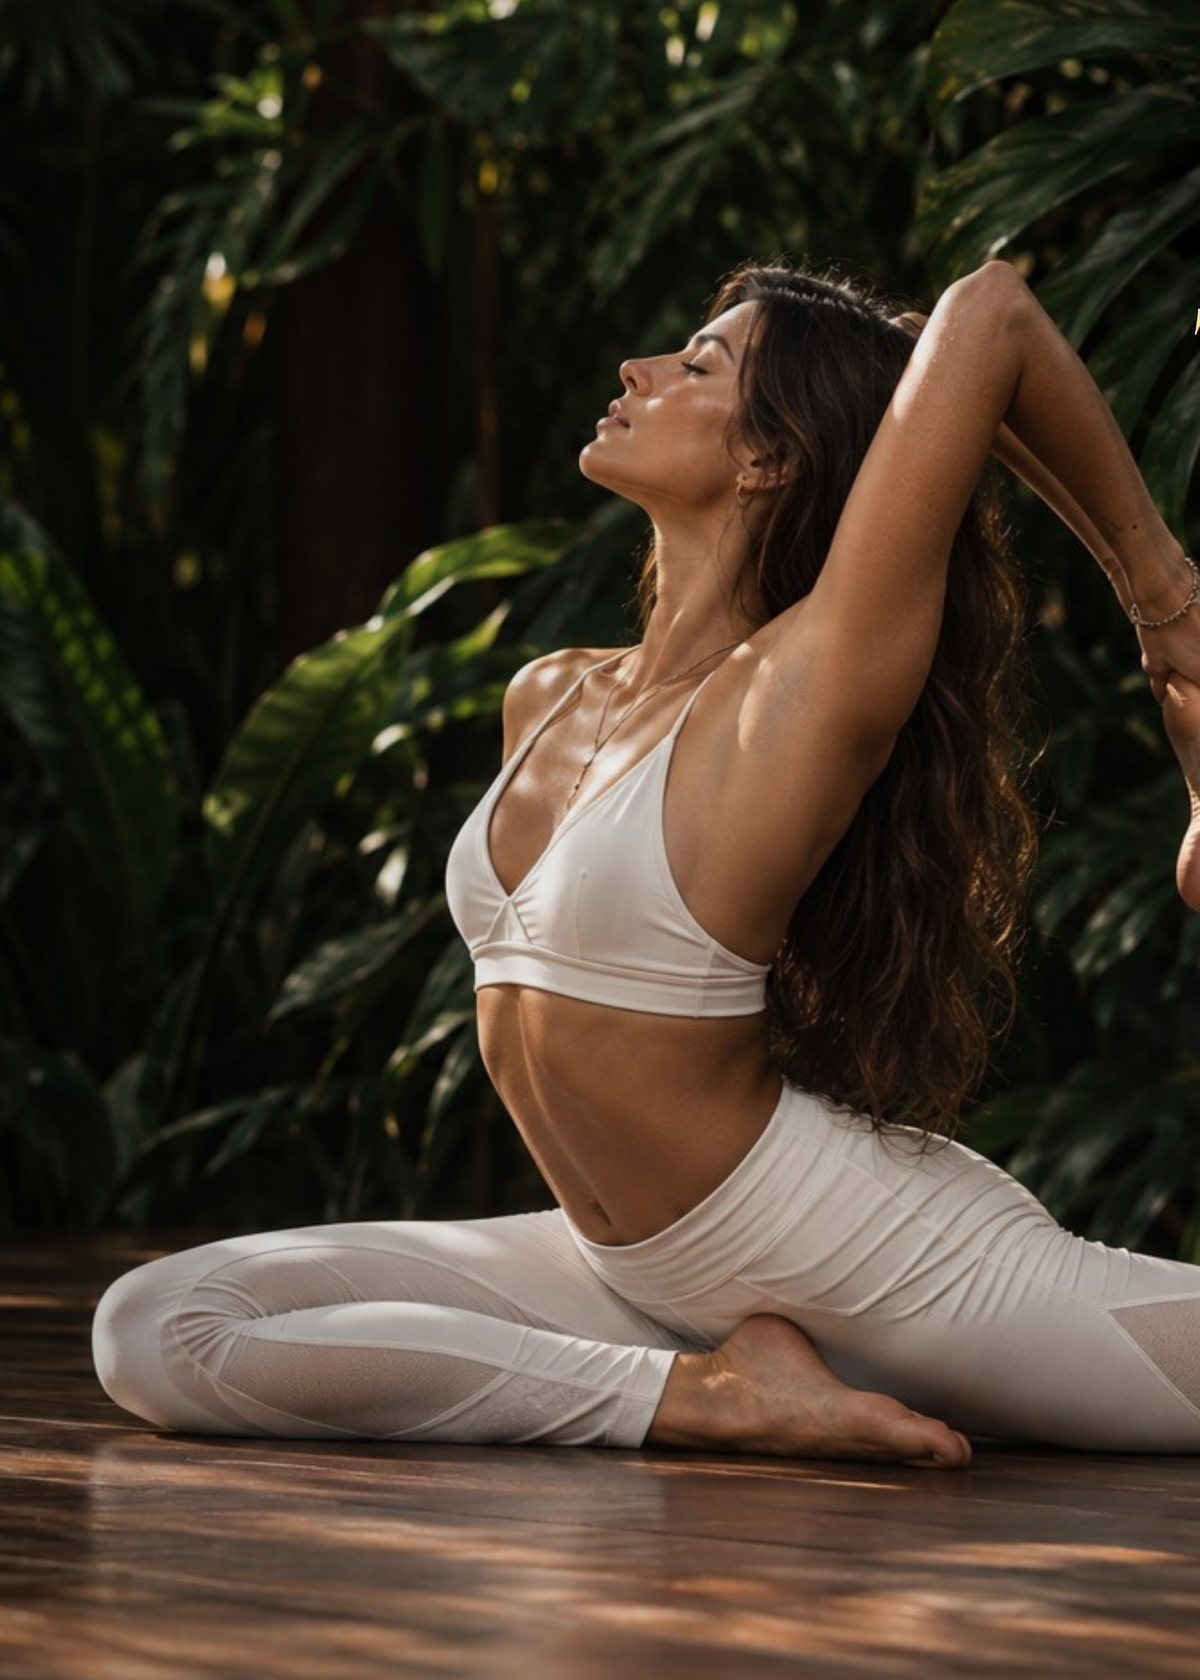
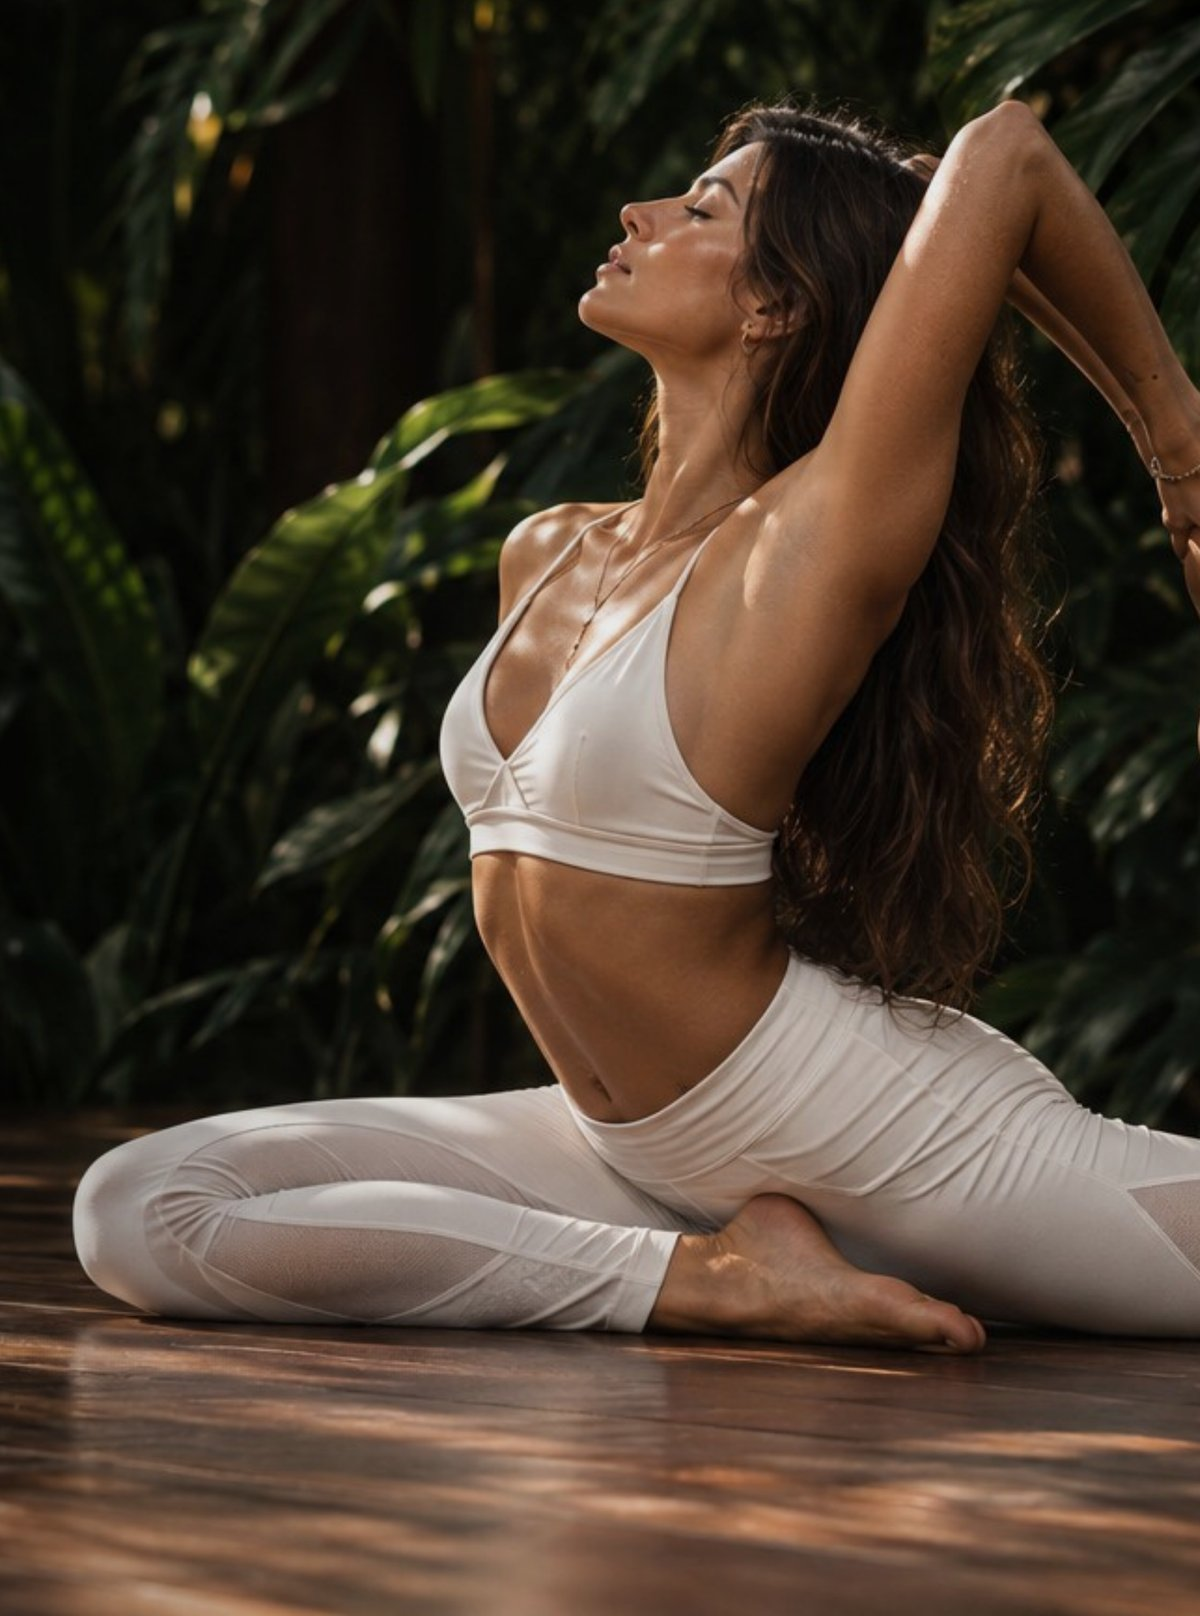
Hero: zoom out to full asana + feature Sri Yantra mandala for brand recall
- Wider hero crop shows the full yoga pose (per feedback: not "too zoomed in")
- Prominent transparent Sri Yantra emblem above the wordmark
- Real mandala mark in the nav for consistent brand recall

Claude-Session: https://claude.ai/code/session_01UZuyFXpcQh3yB3JKErAhAj

diff --git a/index.html b/index.html
@@ -130,6 +130,7 @@ section{position:relative}
 .brand{display:flex;align-items:center;gap:.7rem;flex-shrink:0}
 .brand .mark{width:34px;height:34px;flex-shrink:0}
 .brand .mark svg{width:100%;height:100%;stroke:var(--gold)}
+.brand .mark img{width:100%;height:100%;object-fit:contain}
 .brand b{font-family:var(--display);font-weight:700;font-size:.95rem;letter-spacing:.14em;line-height:1;color:var(--cream)}
 .brand span{font-family:var(--sans);font-size:.56rem;letter-spacing:.34em;color:var(--gold);text-transform:uppercase}
 .nav-links{display:flex;gap:1.35rem;margin-left:auto;align-items:center}
@@ -158,9 +159,10 @@ section{position:relative}
 
 /* ============ HERO ============ */
 .hero{position:relative;min-height:100svh;display:flex;align-items:flex-end;justify-content:center;overflow:hidden;isolation:isolate}
-.hero-photo{position:absolute;inset:0;z-index:-2;width:100%;height:100%;object-fit:cover;object-position:50% 26%}
+.hero-photo{position:absolute;inset:0;z-index:-2;width:100%;height:100%;object-fit:cover;object-position:50% 30%}
 .hero-scrim{position:absolute;inset:0;z-index:-1;background:linear-gradient(180deg,rgba(8,11,8,.6),rgba(8,11,8,.12) 28%,rgba(8,11,8,.32) 58%,rgba(8,11,8,.8) 84%,rgba(8,11,8,.96)),radial-gradient(120% 70% at 50% 108%,rgba(8,11,8,.85),transparent 60%)}
 .hero-content{position:relative;z-index:1;text-align:center;display:flex;flex-direction:column;align-items:center;gap:1.6rem;padding:0 var(--gate) clamp(3.2rem,9vh,6rem);width:100%;max-width:1040px}
+.hero-mark{width:min(160px,34vw);height:auto;margin-bottom:.1rem;filter:drop-shadow(0 8px 24px rgba(0,0,0,.6))}
 .hero-wordmark{width:min(660px,88vw);height:auto;filter:drop-shadow(0 8px 26px rgba(0,0,0,.55))}
 .hero-dateline{width:min(500px,74vw);height:auto;filter:drop-shadow(0 5px 18px rgba(0,0,0,.55))}
 .hero-bg{position:absolute;inset:0;z-index:-3;
@@ -557,6 +559,7 @@ img,svg,video{max-width:100%;height:auto}
   :root{--gate:18px}
   .section-pad{padding-block:clamp(48px,12vw,72px)}
   .hero-content{gap:1.15rem;padding-bottom:clamp(2.6rem,9vh,4rem)}
+  .hero-mark{width:28vw;max-width:130px}
   .hero-wordmark{width:90vw}
   .hero-dateline{width:80vw}
   .hero-cta,.final .hero-cta{flex-direction:column;align-items:stretch;width:100%;max-width:340px;margin-inline:auto}
@@ -596,17 +599,7 @@ img,svg,video{max-width:100%;height:auto}
 <nav class="nav" id="nav">
   <div class="nav-in">
     <a class="brand" href="#top" aria-label="Tulum Yoga Music Fest home">
-      <span class="mark" aria-hidden="true">
-        <svg viewBox="0 0 100 100" fill="none" stroke-width="2">
-          <rect x="14" y="14" width="72" height="72" opacity=".5"/>
-          <circle cx="50" cy="50" r="30"/>
-          <polygon points="50,24 74,66 26,66"/>
-          <polygon points="50,76 26,34 74,34"/>
-          <polygon points="50,34 66,60 34,60"/>
-          <polygon points="50,66 34,40 66,40"/>
-          <circle cx="50" cy="50" r="3" fill="var(--gold)" stroke="none"/>
-        </svg>
-      </span>
+      <span class="mark" aria-hidden="true"><img src="mandala-gold.png" alt="" width="480" height="486" /></span>
       <span><b>TYMF</b><span>Tulum 2026</span></span>
     </a>
     <div class="nav-links" id="navLinks">
@@ -636,6 +629,7 @@ img,svg,video{max-width:100%;height:auto}
   <img class="hero-photo" src="hero-bg.jpg" alt="Yoga practice in the Tulum jungle at Oasis Tulum" fetchpriority="high" width="1200" height="1680" />
   <div class="hero-scrim" aria-hidden="true"></div>
   <div class="hero-content">
+    <img class="hero-mark reveal" src="mandala-gold.png" alt="Tulum Yoga Music Fest emblem" width="480" height="486" />
     <img class="hero-wordmark reveal" src="wordmark.png" alt="Mexico — Tulum Yoga Music Fest + Conference Week" width="1400" height="512" />
     <img class="hero-dateline reveal" src="dateline.png" alt="September 21–27, 2026 — A week of yoga, wellness, music &amp; community" width="1200" height="376" />
     <div class="hero-cta reveal">
